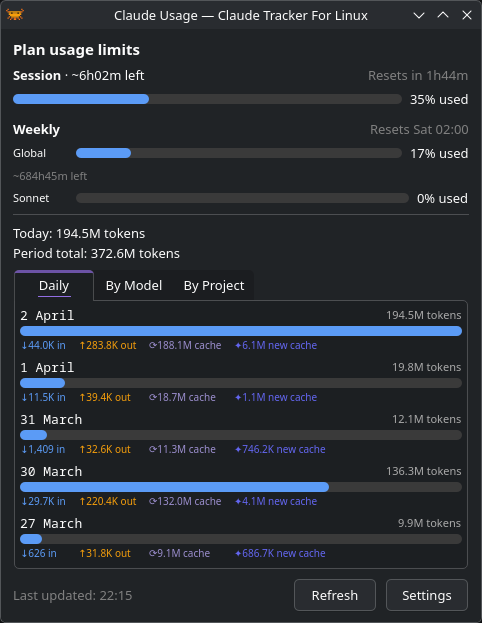
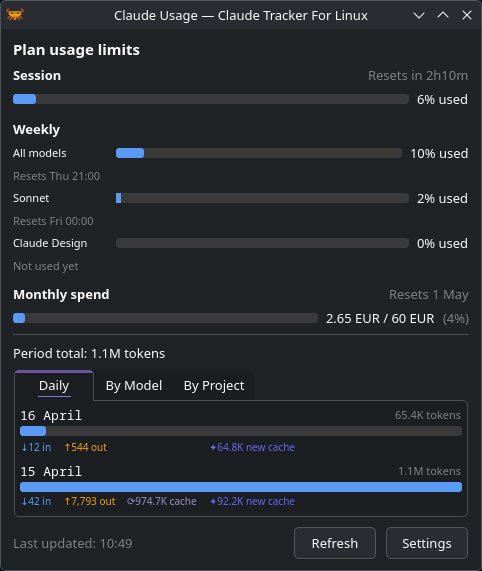
docs: rate-limit changes for v2.7.0
Document the new Claude Design weekly bucket and the per-bar reset
layout in getting-started.md and data-sources.md. Add a dedicated
screenshot of the rate-limits section and refresh the full-popup
capture to match the 2.7.0 English-locale output.

diff --git a/docs/getting-started.md b/docs/getting-started.md
@@ -31,7 +31,11 @@ The popup shows your token usage in several views:
 
 Long lists scroll inside the tab instead of stretching the popup off-screen, so raising **Days to show** in Settings is safe.
 
-Above the charts, the popup surfaces plan rate-limit bars fetched from `claude.ai`. Pro and Max plans show session (5-hour) and weekly bars; Enterprise plans show a monthly spend bar with used / cap credits. The same figures appear in the tooltip when it is enabled.
+Above the charts, the popup surfaces plan rate-limit bars fetched from `claude.ai`. Pro and Max plans show a session (5-hour) bar and one bar per weekly bucket — currently **All models**, **Sonnet**, and **Claude Design** — each with its own reset timestamp. Enterprise plans show a monthly spend bar with used / cap credits instead. The same figures appear in the tooltip when it is enabled.
+
+![Rate-limit section of the popup](assets/images/rate_limits.png){ width="480" }
+
+Buckets you haven't used yet (for example, Claude Design before first use) show **Not used yet** in place of a reset time, and are omitted from the compact tray tooltip.
 
 ### Long-context usage hint
 

diff --git a/docs/data-sources.md b/docs/data-sources.md
@@ -44,7 +44,7 @@ Merges data from local logs and the Admin API. Use this to get the most complete
 
 ## OAuth / Rate limits
 
-CTFL reads your Claude Code OAuth credentials (`.credentials.json` inside the active profile directory) to fetch plan utilization directly from `claude.ai`. Pro and Max plans expose session (5-hour) and weekly windows; Enterprise plans expose a monthly spend window instead, shown as used / cap credits.
+CTFL reads your Claude Code OAuth credentials (`.credentials.json` inside the active profile directory) to fetch plan utilization directly from `claude.ai`. Pro and Max plans expose a session (5-hour) window and multiple weekly windows (All models, Sonnet, Claude Design), each with its own reset time; Enterprise plans expose a monthly spend window instead, shown as used / cap credits.
 
 This happens automatically if you're logged into Claude Code — no configuration needed. Token refresh is handled transparently. When you switch profiles, CTFL re-reads credentials from the newly selected instance, so the utilization you see always matches the account you're currently using.
 
